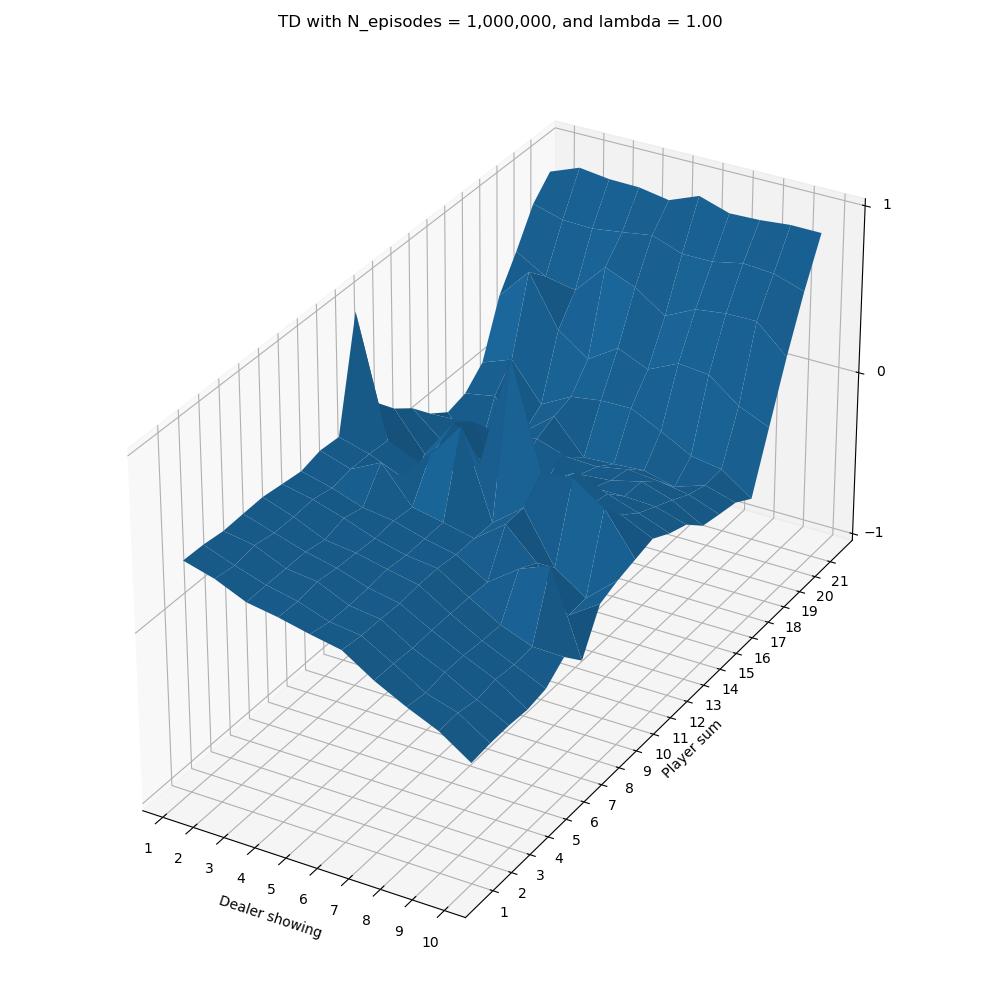
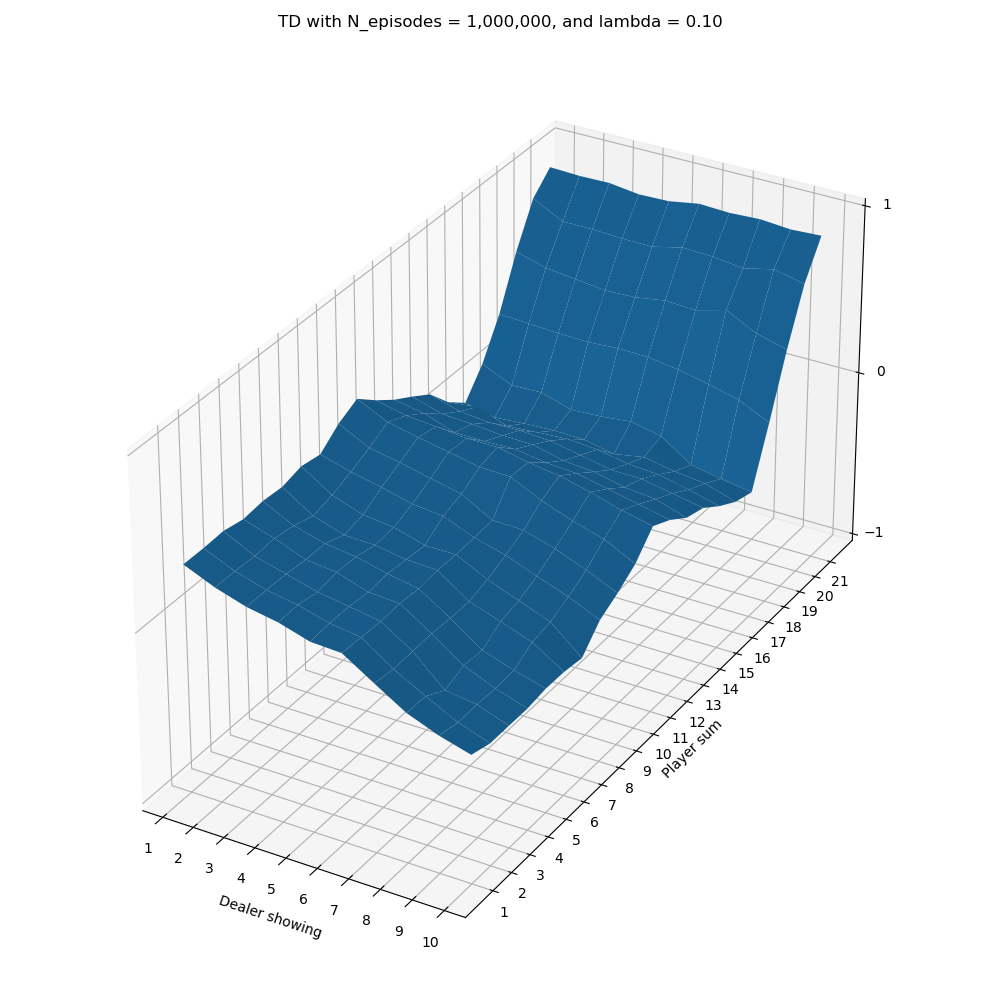
refactor: into classes with inheritance

diff --git a/Easy21/logic/mc_control.py b/Easy21/logic/mc_control.py
@@ -1,80 +1,55 @@
-from random import choice, random
-from typing import Dict, List, Tuple
+from typing import List, Tuple
 
-import numpy as np
-from easy21 import Action, Reward, Rules, State
+from base_control import BaseControl
+from easy21 import Reward, State
 from plotting import plot_V
 from tqdm import tqdm
 
 
-def run_episode(
-    Q: np.ndarray, N0: int, N: np.ndarray, card_value_to_index: Dict[int, int], player_sum_to_index: Dict[int, int]
-) -> Tuple[Reward, List[Tuple[int]]]:
-    visited_indices = []
-    state = State()
+class MonteCarloControl(BaseControl):
+    def run_episode(self) -> Tuple[Reward, List[Tuple[int]]]:
+        visited_indices = []
+        state = State()
 
-    terminate = False
-    while terminate is False:
-        # Update variables
-        state_index = (card_value_to_index[state.dealers_first_card], player_sum_to_index[state.players_sum])
-        eps = N0 / (N0 + N[state_index])
-        N[state_index] += 1
+        terminate = False
+        while terminate is False:
+            # Update variables
+            state_index = (
+                self.card_value_to_index[state.dealers_first_card],
+                self.player_sum_to_index[state.players_sum],
+            )
+            eps = self.N0 / (self.N0 + self.N[state_index])
+            self.N[state_index] += 1
 
-        # Take action using eps-Greedy Exploration
-        if 1 - eps >= random():
-            max_action_value = Q[state_index[0], state_index[1]].max()
-            action_ind = choice(np.where(Q[state_index[0], state_index[1]] == max_action_value)[0])
-        else:
-            action_ind = choice(range(N_actions))
+            state_action_index, action = self.eps_greedy_action(eps, state_index)
 
-        action = Action(action_ind)
+            visited_indices.append(state_action_index)
 
-        # Save relevant stuff
-        state_action_index = (state_index[0], state_index[1], action_ind)
-        visited_indices.append(state_action_index)
+            # Take next step
+            terminate, reward = state.step(action)
 
-        # Take next step
-        terminate, reward = state.step(action)
+        self.N_episodes_run += 1
+        return reward, visited_indices
 
-    return reward, visited_indices, N
+    def update_Q(self, reward: int, visited_indices: List[Tuple[int]]) -> None:
+        for index in visited_indices:
+            self.N_a[index] += 1
+            alpha = 1 / self.N_a[index]
+            self.Q[index] = self.Q[index] + alpha * (reward - self.Q[index])
 
-
-def update_Q(Q: np.ndarray, G: int, visited_indices: List[Tuple[int]], N_a: np.ndarray) -> np.ndarray:
-    for index in visited_indices:
-        N_a[index] += 1
-        alpha = 1 / N_a[index]
-        Q[index] = Q[index] + alpha * (G - Q[index])
-
-    return Q, N_a
+    def run_N_update_steps(self, N: int = 1000) -> None:
+        for _ in tqdm(range(N)):
+            reward, visited_indices = self.run_episode()
+            self.update_Q(reward.value, visited_indices)
 
 
 if __name__ == "__main__":
-    N_dealer_states = 10  # 10 dealer first card options
-    N_player_states = 21  # 21 player sum options
-    N_actions = 2  # Hit or Stick
+    N0 = 100
+    N_EPISODES = 1_000_000
 
-    N0 = 100  # Constant
-    N_episodes = 1_000_000
+    control = MonteCarloControl(N0)
+    control.run_N_update_steps(N_EPISODES)
+    V = control.return_V()
 
-    # Init
-    Q = np.zeros((N_dealer_states, N_player_states, N_actions), dtype="float")
-    N = np.zeros((N_dealer_states, N_player_states), dtype="int")
-    N_a = np.zeros((N_dealer_states, N_player_states, N_actions), dtype="int")
-
-    card_value_to_index = {i + 1: i for i in range(N_dealer_states)}
-    player_sum_to_index = {
-        i + Rules.MIN_VALUE.value: i for i in range(Rules.MAX_VALUE.value - Rules.MIN_VALUE.value + 1)
-    }
-
-    # Run MC
-    for episode in tqdm(range(N_episodes)):
-        # Run episode
-        reward, visited_indices, N = run_episode(Q, N0, N, card_value_to_index, player_sum_to_index)
-
-        # Update information
-        Q, N_a = update_Q(Q, reward.value, visited_indices, N_a)
-
-    V = np.max(Q, axis=-1)
-    fig = plot_V(V, title=f"MC with N_episodes = {N_episodes:,}")
-
-    fig.savefig("Easy21/Plots/test.png")
+    fig = plot_V(V, title=f"MC with N_episodes = {control.N_episodes_run:,}")
+    fig.savefig("Easy21/plots/MC_optimal_V.png")

diff --git a/Easy21/logic/td_control.py b/Easy21/logic/td_control.py
@@ -1,45 +1,14 @@
-from random import choice, random
-from typing import Tuple
-
 import numpy as np
-from easy21 import Action, Rules, State
+from base_control import BaseControl
+from easy21 import State
 from plotting import plot_V
 from tqdm import tqdm
 
 
-class TDControl:
-    # Game specific constants
-    N_dealer_states = 10  # 10 dealer first card options
-    N_player_states = 21  # 21 player sum options
-    N_actions = 2  # Hit or Stick
-
-    def __init__(self, lam: float = 1.0, N0: int = 100) -> None:
+class TDControl(BaseControl):
+    def __init__(self, N0: int = 100, lam: float = 1.0) -> None:
+        super().__init__(N0)
         self.lam = lam
-        self.N0 = N0
-
-        # Initialize
-        self.Q = np.zeros((self.N_dealer_states, self.N_player_states, self.N_actions), dtype="float")
-        self.N = np.zeros((self.N_dealer_states, self.N_player_states), dtype="int")
-        self.N_a = np.zeros((self.N_dealer_states, self.N_player_states, self.N_actions), dtype="int")
-        self.N_episodes_run = 0
-
-        self.card_value_to_index = {i + 1: i for i in range(self.N_dealer_states)}
-        self.player_sum_to_index = {
-            i + Rules.MIN_VALUE.value: i for i in range(Rules.MAX_VALUE.value - Rules.MIN_VALUE.value + 1)
-        }
-
-    def decide_action(self, eps: float, state_index: Tuple[int, int]) -> Tuple[Tuple[int, int, int], Action]:
-        # Take action using eps-Greedy Exploration
-        if 1 - eps >= random():
-            max_action_value = self.Q[state_index[0], state_index[1]].max()
-            action_ind = choice(np.where(self.Q[state_index[0], state_index[1]] == max_action_value)[0])
-        else:
-            action_ind = choice(range(self.N_actions))
-
-        action = Action(action_ind)
-        state_action_index = (state_index[0], state_index[1], action_ind)
-
-        return state_action_index, action
 
     def run_episode(self) -> np.ndarray:
         # Initialize
@@ -49,7 +18,7 @@ class TDControl:
 
         # Take first action
         eps = self.N0 / (self.N0 + self.N[state_index])
-        state_action_index, action = self.decide_action(eps, state_index)
+        state_action_index, action = self.eps_greedy_action(eps, state_index)
         terminate, reward = state.step(action)
 
         # Update state counter
@@ -64,7 +33,7 @@ class TDControl:
                 self.player_sum_to_index[state.players_sum],
             )
             eps = self.N0 / (self.N0 + self.N[new_state_index])
-            new_state_action_index, new_action = self.decide_action(eps, new_state_index)
+            new_state_action_index, new_action = self.eps_greedy_action(eps, new_state_index)
 
             # Update variables
             delta = reward.value + self.Q[new_state_action_index] - self.Q[state_action_index]
@@ -94,22 +63,19 @@ class TDControl:
 
         return self.Q
 
-    def run_N_episodes(self, N: int = 1000) -> np.ndarray:
+    def run_N_episodes(self, N: int = 1000) -> None:
         for _ in tqdm(range(N)):
             self.run_episode()
 
-    def return_V(self) -> np.ndarray:
-        return np.max(self.Q, axis=-1)
-
 
 if __name__ == "__main__":
-    LAMBDA = 1.0
+    LAMBDA = 0.1
     N0 = 100
-    N_EPISODES = 1000000
+    N_EPISODES = 1_000_000
 
-    control = TDControl(LAMBDA, N0)
+    control = TDControl(N0, LAMBDA)
     control.run_N_episodes(N_EPISODES)
     V = control.return_V()
 
     fig = plot_V(V, title=f"TD with N_episodes = {control.N_episodes_run:,}, and lambda = {control.lam:.2f}")
-    fig.savefig("Easy21/Plots/TD_optimal_V.png")
+    fig.savefig("Easy21/plots/TD_optimal_V.png")

diff --git a/Easy21/logic/base_control.py b/Easy21/logic/base_control.py
@@ -1,0 +1,43 @@
+from random import choice, random
+from typing import Tuple
+
+import numpy as np
+from easy21 import Action, Rules
+
+
+class BaseControl:
+    # Game specific constants
+    N_dealer_states = 10  # 10 dealer first card options
+    N_player_states = 21  # 21 player sum options
+    N_actions = 2  # Hit or Stick
+
+    def __init__(self, N0: int = 100) -> None:
+        self.N0 = N0
+
+        # Initialize
+        self.Q = np.zeros((self.N_dealer_states, self.N_player_states, self.N_actions), dtype="float")
+        self.N = np.zeros((self.N_dealer_states, self.N_player_states), dtype="int")
+        self.N_a = np.zeros((self.N_dealer_states, self.N_player_states, self.N_actions), dtype="int")
+        self.N_episodes_run = 0
+
+        self.card_value_to_index = {i + 1: i for i in range(self.N_dealer_states)}
+        self.player_sum_to_index = {
+            i + Rules.MIN_VALUE.value: i for i in range(Rules.MAX_VALUE.value - Rules.MIN_VALUE.value + 1)
+        }
+
+    def eps_greedy_action(self, eps: float, state_index: Tuple[int, int]) -> Tuple[Tuple[int, int, int], Action]:
+        # Take action using eps-Greedy Exploration
+        if 1 - eps >= random():
+            max_action_value = self.Q[state_index[0], state_index[1]].max()
+            action_ind = choice(np.where(self.Q[state_index[0], state_index[1]] == max_action_value)[0])
+        else:
+            action_ind = choice(range(self.N_actions))
+
+        action = Action(action_ind)
+        state_action_index = (state_index[0], state_index[1], action_ind)
+
+        return state_action_index, action
+
+    def return_V(self) -> np.ndarray:
+        V = np.max(self.Q, axis=-1)
+        return V
